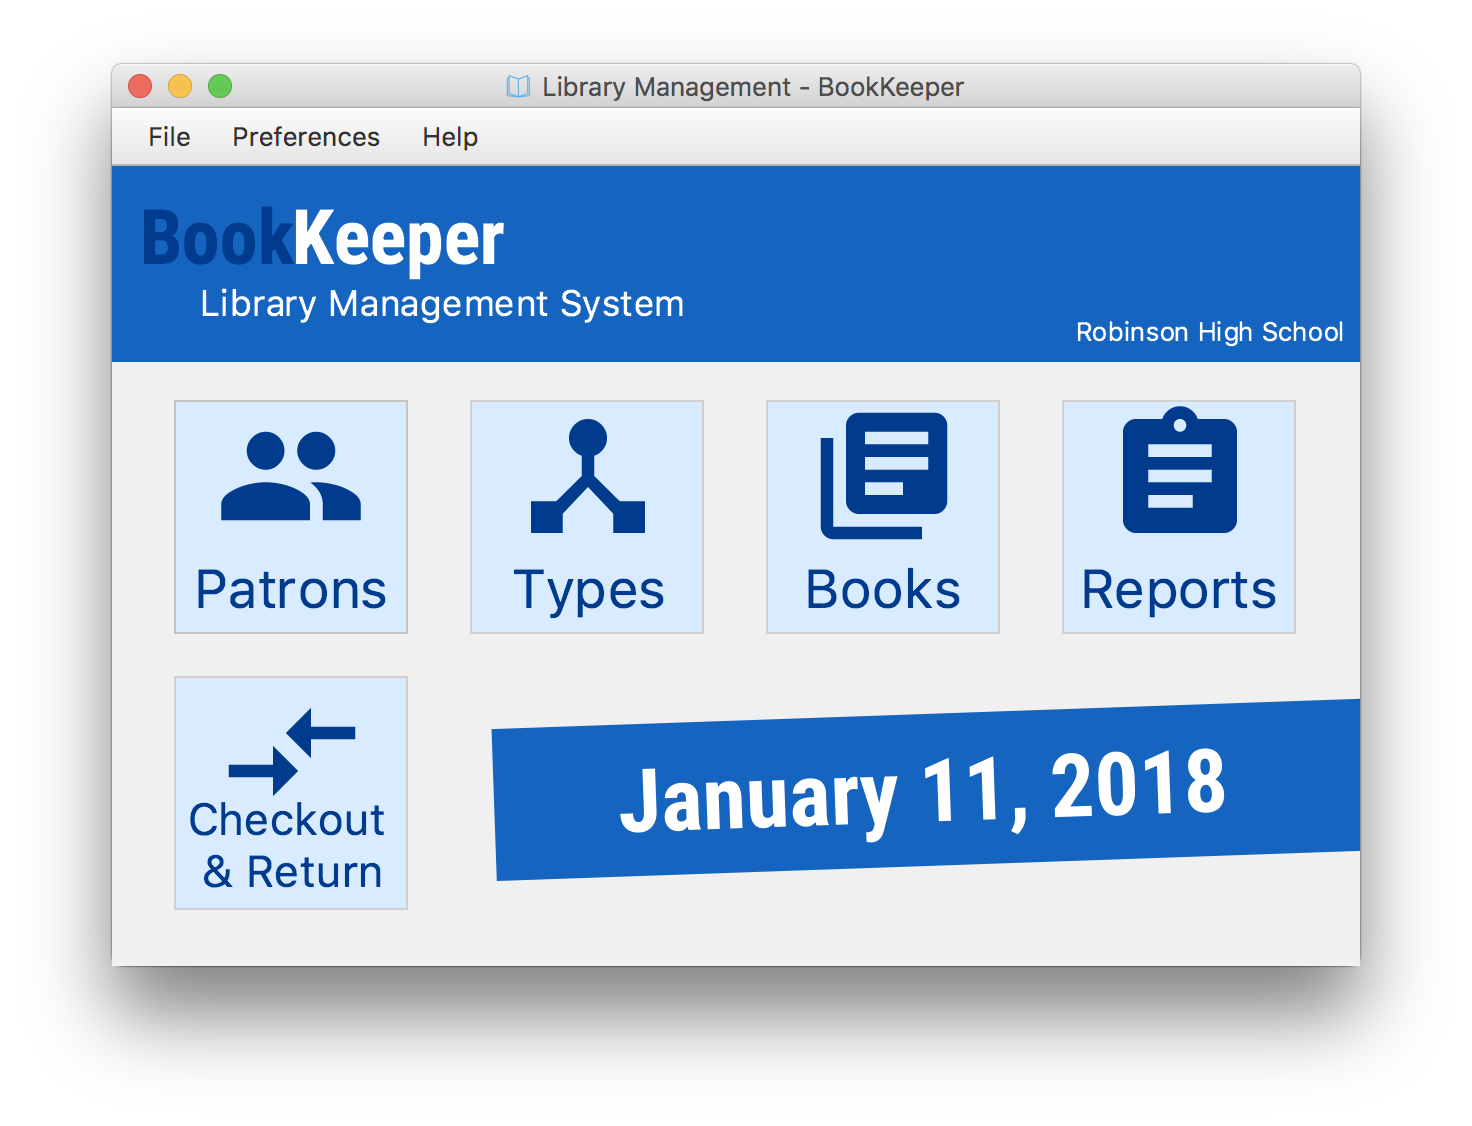
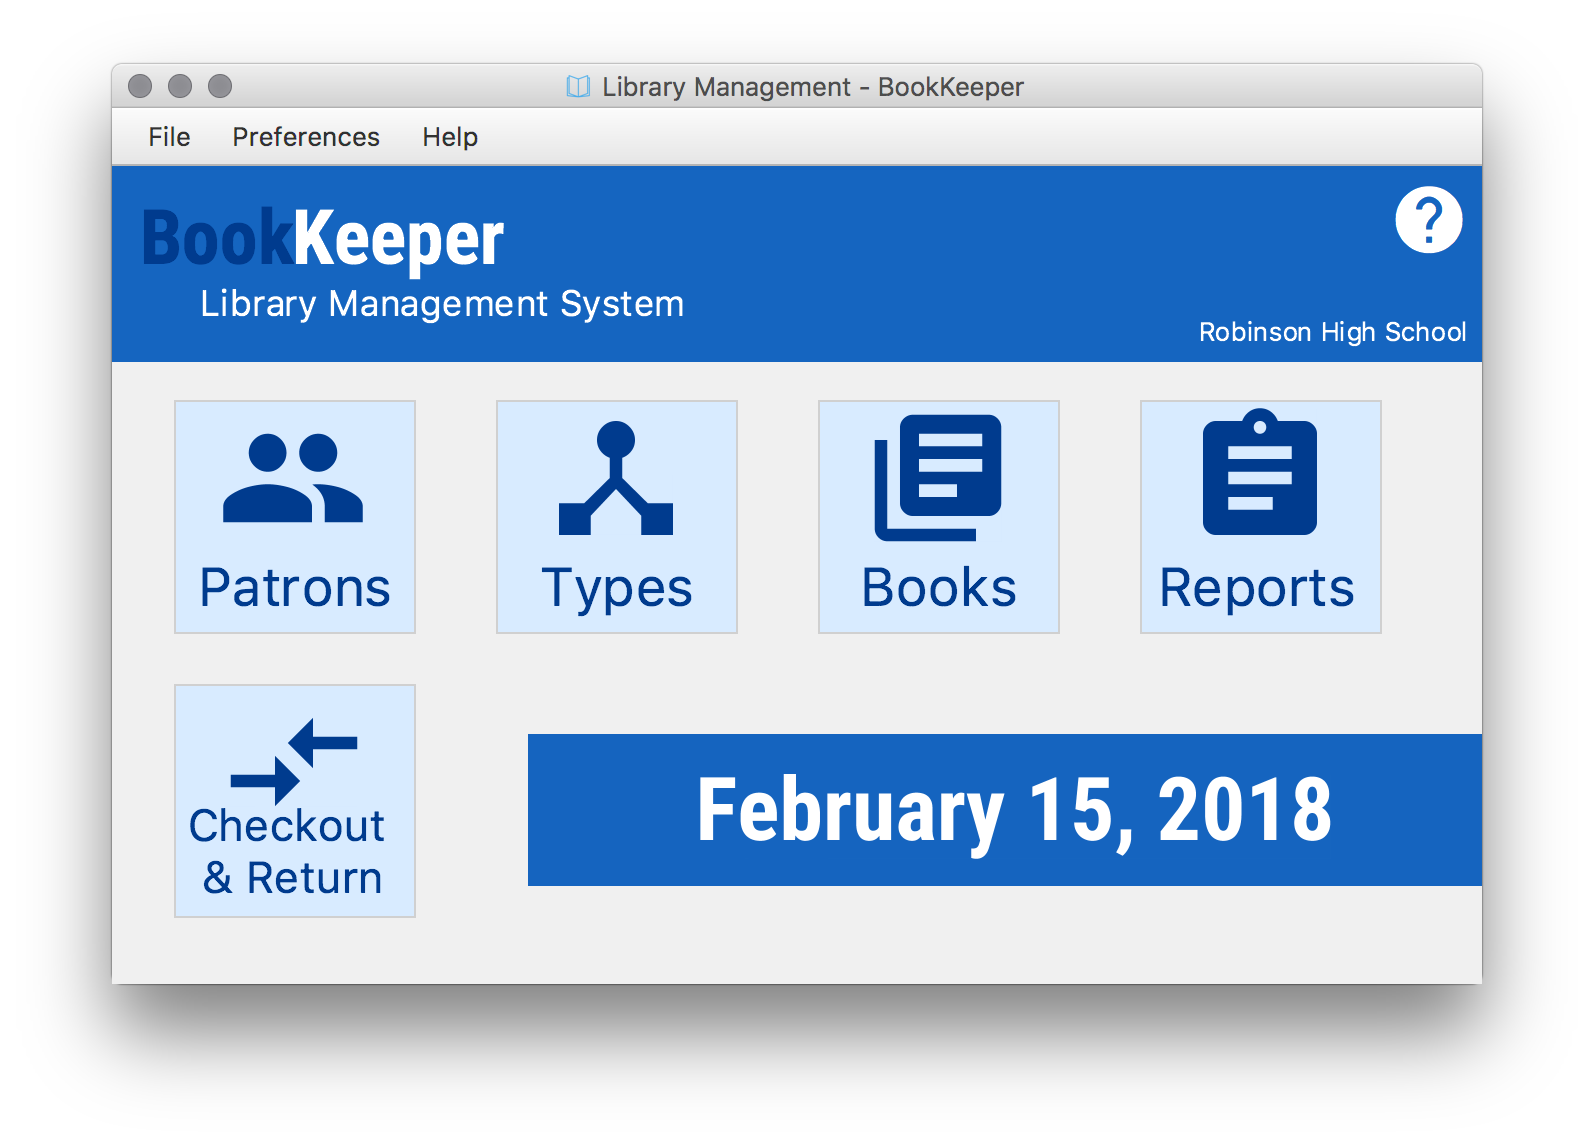
Update Application Documentation

diff --git a/source/resources/library/ui/help/interactive.html b/source/resources/library/ui/help/interactive.html
@@ -14,27 +14,21 @@
         <div class="four columns">
             <h5>Viewing Interactive Help</h5>
             <ul>
-                <li>Checkout a Book</li>
+                <li>Opening the Spotlight Help Overlay</li>
                 <ol>
-                    <li>If you know the Patron ID, type it into the "Patron ID" field and press Enter</li>
-                    <li>Otherwise, press the search icon inside the text field</li>
-                    <li>Search for the patron using the popup Window</li>
-                    <li>Highlight the patron and press "Select"</li>
-                    <li>Repeat this process for the "Book ID" field</li>
-                    <li>Press the "Checkout" Button to checkout the book for the Patron</li>
-                    <li>If the selected book is already checked-out, the librarian can override it at their discretion
+                    <li>In any view, select the circular help button in the top-right of the window (if available)</li>
+                    <li>The overlay will be opened</li>
+                </ol>
+                <li>Navigating the Spotlight Help Overlay</li>
+                <ul>
+                    <li>Select Exit to exit the Spotlight Help Overlay item</li>
+                    <li>Select Next to advance to the next help item</li>
+                    <li>Select Previous to return to the previous help item
+                        <ul style="margin-top: -1px;">
+                            <li>(This option is not available on the first help item)</li>
+                        </ul>
                     </li>
-                </ol>
-                <li>Return a Book</li>
-                <ol>
-                    <li>If you know the Patron ID, type it into the "Patron ID" field and press Enter</li>
-                    <li>Otherwise, press the search icon inside the text field</li>
-                    <li>Search for the patron using the popup Window</li>
-                    <li>Highlight the patron and press "Select"</li>
-                    <li>Use the Filter box at the top right to search for the book to return</li>
-                    <li>Select the book in the table</li>
-                    <li>Press the "Return" button</li>
-                </ol>
+                </ul>
             </ul>
         </div>
         <div class="eight columns img-container">
@@ -43,7 +37,7 @@
     </div>
     <div class="row">
         <div class="six columns">
-            <img src="img/patronSearch.png" class="u-max-full-width"></div>
+            <img src="img/Home.png" class="u-max-full-width"></div>
     </div>
 </div>
 </body>

diff --git a/source/resources/library/ui/help/reports.html b/source/resources/library/ui/help/reports.html
@@ -14,17 +14,35 @@
         <div class="four columns">
             <h5>Generating Reports</h5>
             <ul>
+                Setting Fine Rates
+                <ol>
+                    <li>Select the Printable Reports tab</li>
+                    <li>Set the View to Fines</li>
+                    <li>Select a Fine Rate</li>
+                    <li>Select a Fine Limit</li>
+                    <li>If the view does not automatically update, select Refresh</li>
+                </ol>
                 Generating and Printing a Report
                 <ol>
+                    <li>Select the Printable Reports tab</li>
                     <li>Select the View</li>
                     <li>Select the Sort (If the view isn't fines)</li>
                     <li>Press "Print" to print using the system Print dialogue</li>
+                </ol>
+                Viewing Book Status Reports
+                <ol>
+                    <li>Select the Book Status tab</li>
+                    <li>The book status report can be seen in the pane</li>
                 </ol>
             </ul>
         </div>
         <div class="eight columns img-container">
             <img src="img/Reports.png" class="u-max-full-width">
         </div>
+    </div>
+    <div class="row">
+        <div class="six columns">
+            <img src="img/reportsStatus.png" class="u-max-full-width"></div>
     </div>
 </div>
 </body>
